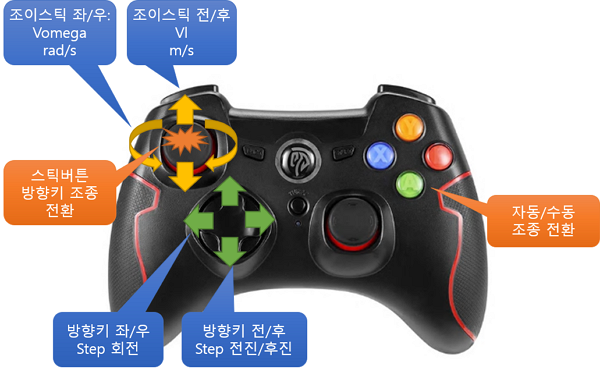
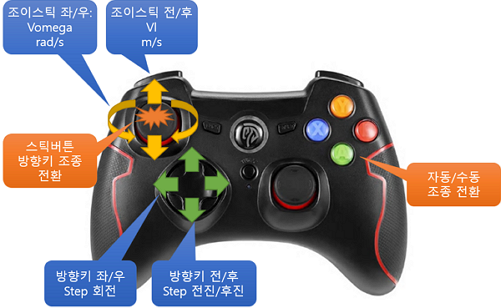
change image size

diff --git a/README.md b/README.md
@@ -84,7 +84,7 @@ $ rosrun omoros driver_r1.py mini
 로봇의 조작 방법은 아래 그림을 참조하시기 바랍니다.
 
 <div align="center">
-  <img src="images/joystick.png">
+  <img src="images/joystick.png" width="500" height="300">
 </div>
 
  - 기본적인 조작 방법은 스틱을 앞/뒤, 좌/우로 조작하여 움직이는 것입니다.
